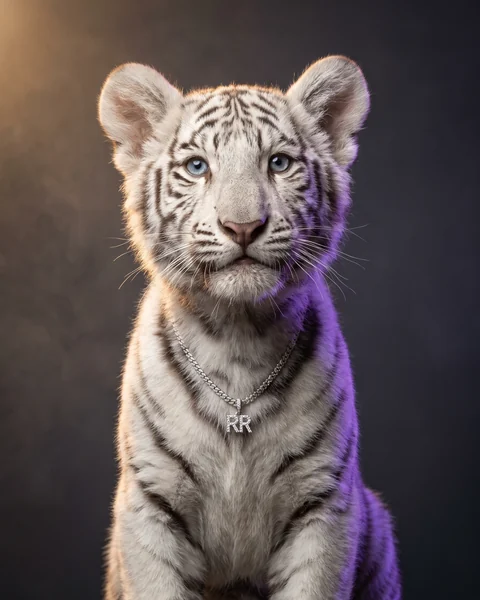
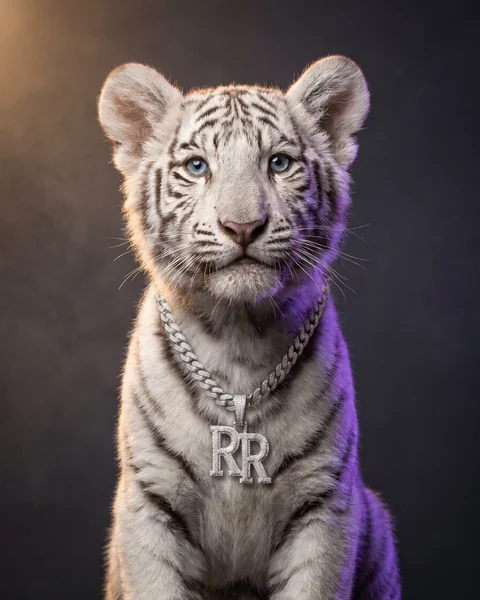
Lucky and Baby Rebel, with chains that match Zeus
Clean RR, chunky pendant, proper bail, nothing floating. Same backdrop and
framing as the rest, so they went in on the same crop with nothing changed.

All eight of the cast are now one set and the three RR chains match each
other. The cast row is finished.

diff --git a/PLACEHOLDERS.md b/PLACEHOLDERS.md
@@ -29,19 +29,11 @@ They want a reel or post address, which we can fetch the cover from ourselves.
 - [ ] The recording studio
 - [ ] Jamaica
 
-## Two photographs to be remade
-
-Both are up and both look fine at the size they sit on the page.
-
-- [ ] **Lucky** — the RR pendant has a stroke through the first letter
-- [ ] **Baby Rebel** — a floating bar above the RR, and the pendant is thinner
-      than the one on Zeus, which is the one that came out right
-
 ---
 
 ## Everything else is real
 
-The whole cast, all eight, on one backdrop. Every event with its date, its
+The whole cast, all eight, on one backdrop, with the three RR chains matching each other. Every event with its date, its
 story in the customer's own words, its cover and its gallery. Forty seven
 songs, every one checked against YouTube. The album. Twenty nine products with
 their artwork. All four Skools. Every highlight cover with its link. The logo,
